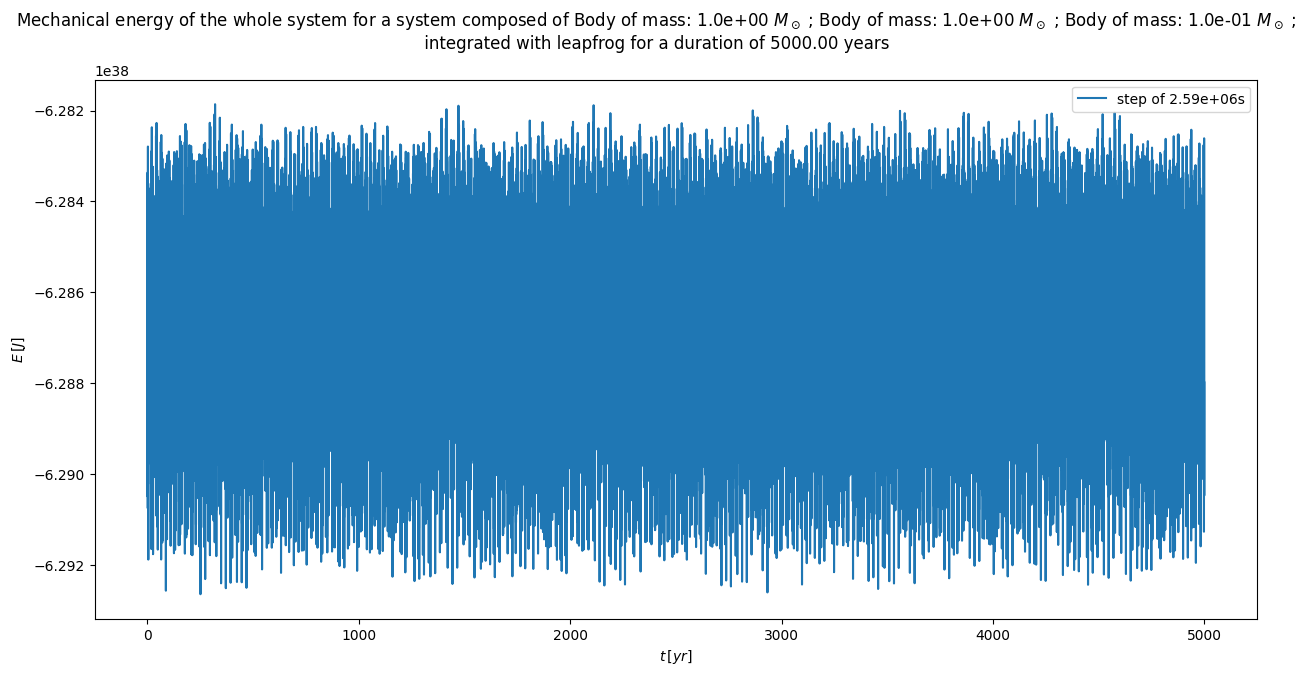
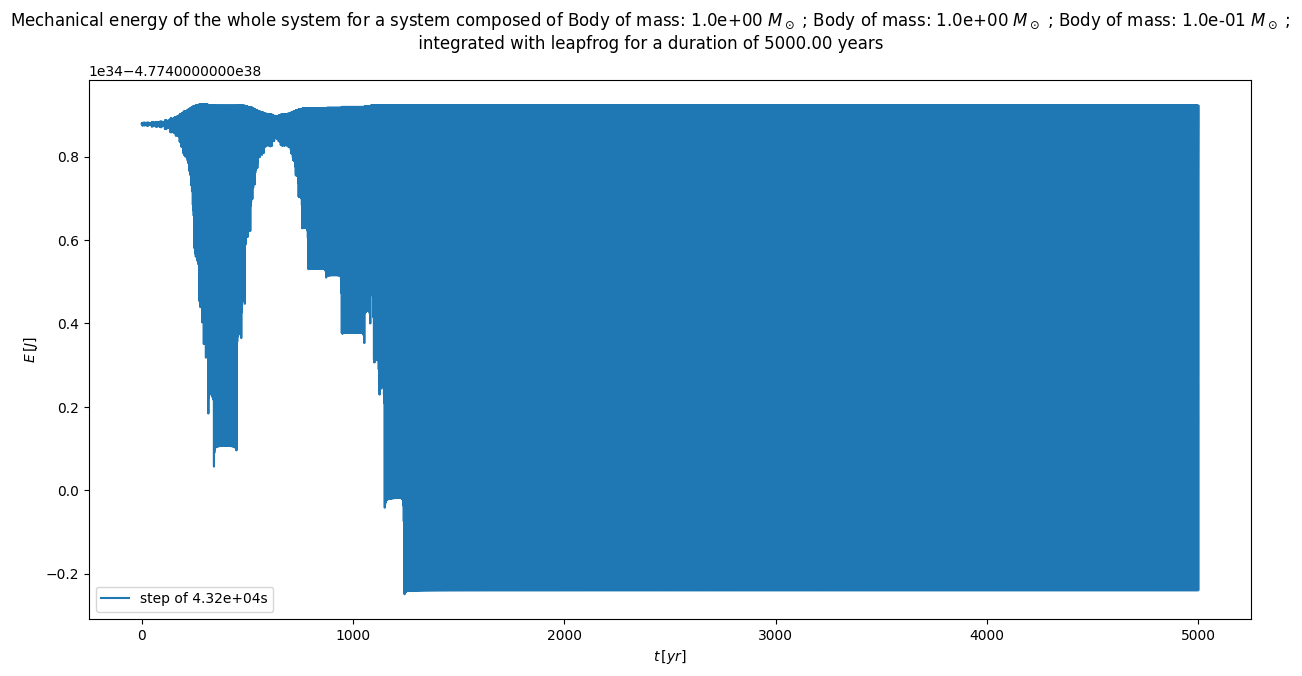
Modify main.py for single step length, concurrent.py to multiple steps

diff --git a/main.py b/main.py
@@ -12,7 +12,7 @@ from lib.units import *
 def main():
     #initialisation
     m = np.array([1., 1., 1e-1],dtype=np.longdouble)*Ms#/Ms  # Masses in Solar mass
-    a = np.array([0.75, 0.75, 5.],dtype=np.longdouble)*au#/au   # Semi-major axis in astronomical units
+    a = np.array([1., 1., 5.5],dtype=np.longdouble)*au#/au   # Semi-major axis in astronomical units
     e = np.array([0., 0., 0.25],dtype=np.longdouble)   # Eccentricity
     psi = np.array([0., 0., 80.],dtype=np.longdouble)*np.pi/180.    # Inclination of the orbital plane in degrees
 
@@ -27,8 +27,7 @@ def main():
     v = np.array([v1, v2, v3],dtype=np.longdouble)
 
     #integration parameters
-    duration, step = 5000*yr, np.array([30./1.*86400.],dtype=np.longdouble) #integration time and step in seconds
-    step = np.sort(step)[::-1]
+    duration, step = 5000*yr, np.longdouble(1./2.*86400.) #integration time and step in seconds
     integrator = "leapfrog"
     n_bodies = 3
     display = False
@@ -36,28 +35,19 @@ def main():
     savename = "{0:d}bodies_{1:s}".format(n_bodies, integrator)
 
     #simulation start
-    E, L, ecc, sma, phi = [], [], [], [], []
-    for i,step0 in enumerate(step):
-        bodylist = []
-        for j in range(n_bodies):
-            bodylist.append(Body(m[j], q[j], v[j]))
-        bin_syst = System(bodylist[0:2])
-        dyn_syst = System(bodylist, main=True)
+    bodylist = []
+    for j in range(n_bodies):
+        bodylist.append(Body(m[j], q[j], v[j]))
+    bin_syst = System(bodylist[0:2])
+    dyn_syst = System(bodylist, main=True)
 
-        if i != 0:
-            display = False
-        if integrator.lower() in ['leapfrog', 'frogleap', 'frog']:
-            E0, L0, sma0, ecc0, phi0 = leapfrog(dyn_syst, bin_syst, duration, step0, recover_param=True, display=display, savename=savename, gif=gif)
-        elif integrator.lower() in ['hermite','herm']:
-            E0, L0, sma0, ecc0, phi0 = hermite(dyn_syst, bin_syst, duration, step0, recover_param=True, display=display, savename=savename, gif=gif)
-        E.append(E0)
-        L.append(L0)
-        ecc.append(ecc0)
-        sma.append(sma0)
-        phi.append(phi0)
+    if integrator.lower() in ['leapfrog', 'frogleap', 'frog']:
+        E, L, sma, ecc, phi = leapfrog(dyn_syst, bin_syst, duration, step, recover_param=True, display=display, savename=savename, gif=gif)
+    elif integrator.lower() in ['hermite','herm']:
+        E, L, sma, ecc, phi = hermite(dyn_syst, bin_syst, duration, step, recover_param=True, display=display, savename=savename, gif=gif)
 
-    parameters = [duration, step, dyn_syst, integrator]
-    display_parameters(E, L, sma, ecc, phi, parameters=parameters, savename=savename) #take the mean value of sma/ecc on given time interval (up to one period)
+    parameters = [duration, [step], dyn_syst, integrator]
+    display_parameters([E], [L], [sma], [ecc], [phi], parameters=parameters, savename=savename) #take the mean value of sma/ecc on given time interval (up to one period)
     # np.convolve(sma, np.ones(int(period/step)))/int(period/step) -> moving average on the period duration
     return 0
 

diff --git a/concurrent_steps.py b/concurrent_steps.py
@@ -55,15 +55,16 @@ def main():
         elif integrator.lower() in ['hermite','herm']:
             future_ELae.append(exe.submit(hermite, bodysyst[i][1], bodysyst[i][0], duration, step0, recover_param=True, display=display, savename=savename, gif=gif))
     
-    E, L, sma, ecc = [], [], [], []
+    E, L, sma, ecc, phi = [], [], [], [], []
     for future in future_ELae:
-        E0, L0, sma0, ecc0 = future.result()
+        E0, L0, sma0, ecc0, phi0 = future.result()
         E.append(E0)
         L.append(L0)
         sma.append(sma0)
         ecc.append(ecc0)
+        phi.append(phi0)
     parameters = [duration, step, dyn_syst, integrator]
-    display_parameters(E, L, sma, ecc, parameters=parameters, savename=savename)
+    display_parameters(E, L, sma, ecc, phi, parameters=parameters, savename=savename)
     return 0
 
 if __name__ == '__main__':
